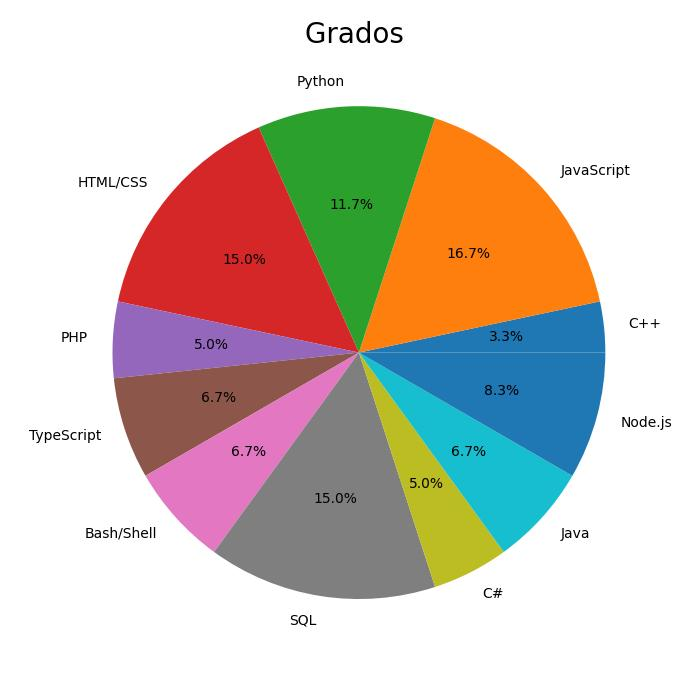
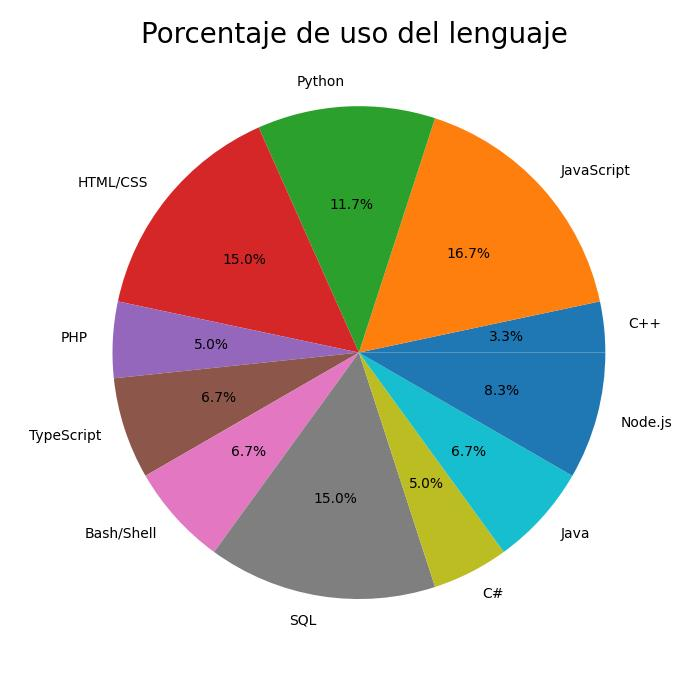
Mejora de presentación

Changed region(s): [[0.18, 0.03, 0.81, 0.09]]

diff --git a/static/images/grafos/Red de Relación de Lenguajes 30.html b/static/images/grafos/Red de Relación de Lenguajes 30.html
@@ -1,0 +1,85 @@
+
+
+
+
+<!DOCTYPE html>
+<html lang="en">
+  
+  <head>
+    
+      <meta charset="utf-8">
+      <title>Bokeh Plot</title>
+      
+      
+        
+          
+        
+        
+          
+        <script type="text/javascript" src="https://cdn.bokeh.org/bokeh/release/bokeh-2.4.2.min.js"></script>
+        <script type="text/javascript">
+            Bokeh.set_log_level("info");
+        </script>
+        
+      
+      
+    
+  </head>
+  
+  
+  <body>
+    
+      
+        
+          
+          
+            
+              <div class="bk-root" id="087b20fb-9281-4507-b767-f6efa4175745" data-root-id="1004"></div>
+            
+          
+        
+      
+      
+        <script type="application/json" id="1364">
+          {"e2a162a5-e5c5-48e3-ac5f-4ced6c0c3d2c":{"defs":[],"roots":{"references":[{"attributes":{},"id":"1094","type":"UnionRenderers"},{"attributes":{"data":{"name":["C++","JavaScript","Python","HTML/CSS","PHP","TypeScript","Bash/Shell","SQL","C#","Java","Node.js"],"x":[10.0,8.41253520348504,4.1541505335069475,-1.4231482709823826,-6.548606618843784,-9.594929655072937,-9.594929655072937,-6.548607214890226,-1.4231500591217114,4.154151129553391,8.412534607438598],"y":[0.0,5.406407669947302,9.096319601511526,9.898214259758205,7.557496367063065,2.817326165188501,-2.8173255691420582,-7.5574957710166215,-9.898214259758205,-9.096319601511526,-5.406408862040188]},"selected":{"id":"1095"},"selection_policy":{"id":"1094"}},"id":"1076","type":"ColumnDataSource"},{"attributes":{},"id":"1011","type":"LinearScale"},{"attributes":{},"id":"1098","type":"UnionRenderers"},{"attributes":{"coordinates":null,"edge_renderer":{"id":"1039"},"group":null,"inspection_policy":{"id":"1074"},"layout_provider":{"id":"1041"},"node_renderer":{"id":"1035"},"selection_policy":{"id":"1072"}},"id":"1032","type":"GraphRenderer"},{"attributes":{"end":12,"start":-12},"id":"1003","type":"Range1d"},{"attributes":{"coordinates":null,"formatter":{"id":"1092"},"group":null,"major_label_policy":{"id":"1093"},"ticker":{"id":"1014"}},"id":"1013","type":"LinearAxis"},{"attributes":{},"id":"1072","type":"NodesAndLinkedEdges"},{"attributes":{"source":{"id":"1038"}},"id":"1040","type":"CDSView"},{"attributes":{"data":{"adjusted_node_size":[7,15,12,14,8,9,9,14,8,9,10],"betweenness":[0.0,0.24074074074074076,0.07222222222222223,0.1185185185185185,0.0,0.0,0.0,0.1185185185185185,0.0,0.0,0.005555555555555556],"closeness":[0.5555555555555556,1.0,0.7692307692307693,0.9090909090909091,0.5882352941176471,0.625,0.625,0.9090909090909091,0.5882352941176471,0.625,0.6666666666666666],"communityNumber":[0,1,0,1,1,1,0,1,1,0,1],"degree":[0.2,1.0,0.7000000000000001,0.9,0.30000000000000004,0.4,0.4,0.9,0.30000000000000004,0.4,0.5],"edge":[2,10,7,9,3,4,4,9,3,4,5],"eigenvector":[0.12131642024595973,0.42810149458000507,0.3412634104035984,0.4115773710719093,0.19730271857122136,0.2429400388689923,0.25111450885391384,0.4115773710719093,0.19730271857122136,0.25111450885391384,0.2894223131845697],"index":["C++","JavaScript","Python","HTML/CSS","PHP","TypeScript","Bash/Shell","SQL","C#","Java","Node.js"],"modularity":[-0.00111,-0.02778,-0.01361,-0.0225,-0.0025,-0.00444,-0.00444,-0.0225,-0.0025,-0.00444,-0.00694],"modularity_color":["#3288bd","#66c2a5","#3288bd","#66c2a5","#66c2a5","#66c2a5","#3288bd","#66c2a5","#66c2a5","#3288bd","#66c2a5"],"pagerank":[0.03292393253117001,0.19233999199822485,0.11205605087802184,0.16252508104443988,0.045280224736734744,0.065372274414834,0.055341557593955364,0.13953488674451123,0.046805957759413236,0.06479750046695046,0.08302254183174451]},"selected":{"id":"1097"},"selection_policy":{"id":"1096"}},"id":"1034","type":"ColumnDataSource"},{"attributes":{},"id":"1009","type":"LinearScale"},{"attributes":{"data":{"end":["JavaScript","Python","HTML/CSS","PHP","Python","TypeScript","Bash/Shell","SQL","C#","Java","Node.js","HTML/CSS","Bash/Shell","SQL","Java","Node.js","PHP","TypeScript","Bash/Shell","SQL","C#","Java","Node.js","SQL","SQL","Node.js","SQL","C#","Java","Node.js"],"start":["C++","C++","JavaScript","JavaScript","JavaScript","JavaScript","JavaScript","JavaScript","JavaScript","JavaScript","JavaScript","Python","Python","Python","Python","Python","HTML/CSS","HTML/CSS","HTML/CSS","HTML/CSS","HTML/CSS","HTML/CSS","HTML/CSS","PHP","TypeScript","TypeScript","Bash/Shell","SQL","SQL","SQL"],"weight":[12326,13543,40818,15965,24974,22542,15460,29709,16624,20378,26262,22361,14577,19651,15599,14126,14704,18681,13968,27005,14833,17354,21795,12884,13775,15629,12661,14186,16293,15713]},"selected":{"id":"1099"},"selection_policy":{"id":"1098"}},"id":"1038","type":"ColumnDataSource"},{"attributes":{"active_scroll":{"id":"1022"},"tools":[{"id":"1021"},{"id":"1022"},{"id":"1023"},{"id":"1024"},{"id":"1025"}]},"id":"1026","type":"Toolbar"},{"attributes":{"below":[{"id":"1013"}],"center":[{"id":"1016"},{"id":"1020"}],"left":[{"id":"1017"}],"renderers":[{"id":"1032"},{"id":"1077"}],"title":{"id":"1005"},"toolbar":{"id":"1026"},"x_range":{"id":"1002"},"x_scale":{"id":"1009"},"y_range":{"id":"1003"},"y_scale":{"id":"1011"}},"id":"1004","subtype":"Figure","type":"Plot"},{"attributes":{},"id":"1089","type":"BasicTickFormatter"},{"attributes":{"coordinates":null,"group":null,"text":"Red de Relaci\u00f3n de Lenguajes "},"id":"1005","type":"Title"},{"attributes":{},"id":"1099","type":"Selection"},{"attributes":{"source":{"id":"1034"}},"id":"1036","type":"CDSView"},{"attributes":{},"id":"1090","type":"AllLabels"},{"attributes":{"line_width":{"value":2}},"id":"1062","type":"MultiLine"},{"attributes":{"end":12,"start":-12},"id":"1002","type":"Range1d"},{"attributes":{"fill_color":{"value":"white"},"line_width":{"value":2},"size":{"field":"adjusted_node_size"}},"id":"1052","type":"Circle"},{"attributes":{},"id":"1092","type":"BasicTickFormatter"},{"attributes":{},"id":"1014","type":"BasicTicker"},{"attributes":{},"id":"1095","type":"Selection"},{"attributes":{"coordinates":null,"formatter":{"id":"1089"},"group":null,"major_label_policy":{"id":"1090"},"ticker":{"id":"1018"}},"id":"1017","type":"LinearAxis"},{"attributes":{"axis":{"id":"1013"},"coordinates":null,"group":null,"ticker":null},"id":"1016","type":"Grid"},{"attributes":{},"id":"1093","type":"AllLabels"},{"attributes":{"line_width":{"value":2}},"id":"1067","type":"MultiLine"},{"attributes":{"coordinates":null,"data_source":{"id":"1038"},"glyph":{"id":"1057"},"group":null,"hover_glyph":{"id":"1067"},"selection_glyph":{"id":"1062"},"view":{"id":"1040"}},"id":"1039","type":"GlyphRenderer"},{"attributes":{"line_alpha":{"value":0.3}},"id":"1057","type":"MultiLine"},{"attributes":{"fill_color":{"value":"white"},"line_width":{"value":2},"size":{"field":"adjusted_node_size"}},"id":"1047","type":"Circle"},{"attributes":{},"id":"1074","type":"NodesAndLinkedEdges"},{"attributes":{},"id":"1018","type":"BasicTicker"},{"attributes":{"axis":{"id":"1017"},"coordinates":null,"dimension":1,"group":null,"ticker":null},"id":"1020","type":"Grid"},{"attributes":{},"id":"1096","type":"UnionRenderers"},{"attributes":{"callback":null,"tooltips":[["Lenguaje","@index"],["Enlaces","@edge"],["Modularidad","@modularity"],["Influencia","@pagerank"],["Grado","@degree"],["Betweenness","@betweenness"],["Closeness","@closeness"],["Eigenvector","@eigenvector"],["N\u00famero Comunidad","@communityNumber"],["Color Modularidad","$color[swatch]:modularity_color"]]},"id":"1025","type":"HoverTool"},{"attributes":{},"id":"1097","type":"Selection"},{"attributes":{"background_fill_alpha":{"value":0.7},"background_fill_color":{"value":"white"},"coordinates":null,"group":null,"source":{"id":"1076"},"text":{"field":"name"},"text_font_size":{"value":"10px"},"x":{"field":"x"},"y":{"field":"y"}},"id":"1077","type":"LabelSet"},{"attributes":{},"id":"1022","type":"WheelZoomTool"},{"attributes":{},"id":"1021","type":"PanTool"},{"attributes":{},"id":"1023","type":"SaveTool"},{"attributes":{},"id":"1024","type":"ResetTool"},{"attributes":{"fill_color":{"field":"modularity_color"},"size":{"field":"adjusted_node_size"}},"id":"1042","type":"Circle"},{"attributes":{"coordinates":null,"data_source":{"id":"1034"},"glyph":{"id":"1042"},"group":null,"hover_glyph":{"id":"1047"},"selection_glyph":{"id":"1052"},"view":{"id":"1036"}},"id":"1035","type":"GlyphRenderer"},{"attributes":{"graph_layout":{"Bash/Shell":[-9.594929655072937,-2.8173255691420582],"C#":[-1.4231500591217114,-9.898214259758205],"C++":[10.0,0.0],"HTML/CSS":[-1.4231482709823826,9.898214259758205],"Java":[4.154151129553391,-9.096319601511526],"JavaScript":[8.41253520348504,5.406407669947302],"Node.js":[8.412534607438598,-5.406408862040188],"PHP":[-6.548606618843784,7.557496367063065],"Python":[4.1541505335069475,9.096319601511526],"SQL":[-6.548607214890226,-7.5574957710166215],"TypeScript":[-9.594929655072937,2.817326165188501]}},"id":"1041","type":"StaticLayoutProvider"}],"root_ids":["1004"]},"title":"Bokeh Application","version":"2.4.2"}}
+        </script>
+        <script type="text/javascript">
+          (function() {
+            const fn = function() {
+              Bokeh.safely(function() {
+                (function(root) {
+                  function embed_document(root) {
+                    
+                  const docs_json = document.getElementById('1364').textContent;
+                  const render_items = [{"docid":"e2a162a5-e5c5-48e3-ac5f-4ced6c0c3d2c","root_ids":["1004"],"roots":{"1004":"087b20fb-9281-4507-b767-f6efa4175745"}}];
+                  root.Bokeh.embed.embed_items(docs_json, render_items);
+                
+                  }
+                  if (root.Bokeh !== undefined) {
+                    embed_document(root);
+                  } else {
+                    let attempts = 0;
+                    const timer = setInterval(function(root) {
+                      if (root.Bokeh !== undefined) {
+                        clearInterval(timer);
+                        embed_document(root);
+                      } else {
+                        attempts++;
+                        if (attempts > 100) {
+                          clearInterval(timer);
+                          console.log("Bokeh: ERROR: Unable to run BokehJS code because BokehJS library is missing");
+                        }
+                      }
+                    }, 10, root)
+                  }
+                })(window);
+              });
+            };
+            if (document.readyState != "loading") fn();
+            else document.addEventListener("DOMContentLoaded", fn);
+          })();
+        </script>
+    
+  </body>
+  
+</html>

diff --git a/templates/principal.html b/templates/principal.html
@@ -1,26 +1,26 @@
 {% extends "base.html" %}
 {% block pagecontent %}
 
-<p>
-    Umbral: {{ name }}
+<p align="Middle">
+    <b>Umbral: {{ name }}</b>
 </p>
 
 <p>    
     <tr>
         <td>
-            <iframe src="./static/images/grafos/Languages That I worked With Network{{name}}.html" scrolling="no" width="55%" height="620" ></iframe>
+            <iframe src="./static/images/grafos/Red de Relación de Lenguajes {{name}}.html" scrolling="no" width="53%" height="620" ></iframe>
         </td>
         <td>
-            <iframe src="./static/images/tablas/tablaVecinos{{name}}.html" scrolling="auto" width="40%" height="620" ></iframe>
+            <iframe align="Right" src="./static/images/tablas/tablaVecinos{{name}}.html" scrolling="auto" width="45%" height="620" ></iframe>
         </td>
     </tr>
     
     <tr>
         <td>
-            <img src="./static/images/histogramas/histograma{{name}}.jpg" width="400" height="300" >
+            <img align="Middle" src="./static/images/histogramas/histograma{{name}}.jpg" width="400" height="350">
         </td>
         <td>
-            <img src="./static/images/graficosSectores/GraficoSectores{{name}}.jpg" width="500" height="500">
+            <img align="Middle" src="./static/images/graficosSectores/GraficoSectores{{name}}.jpg" width="450" height="500">
         </td>
     </tr>
 </p>

diff --git a/static/images/tablas/tablaVecinos30.html b/static/images/tablas/tablaVecinos30.html
@@ -1,18 +1,18 @@
 <table border="1" class="dataframe">
   <thead>
-    <tr style="text-align: right;">
-      <th></th>
-      <th>Nodo</th>
-      <th>Lenguaje 1</th>
-      <th>Lenguaje 2</th>
-      <th>Lenguaje 3</th>
-      <th>Lenguaje 4</th>
-      <th>Lenguaje 5</th>
-      <th>Lenguaje 6</th>
-      <th>Lenguaje 7</th>
-      <th>Lenguaje 8</th>
-      <th>Lenguaje 9</th>
-      <th>Lenguaje 10</th>
+    <tr style="text-align: center;">
+      <th style="min-width: 100px;"></th>
+      <th style="min-width: 100px;">Nodo</th>
+      <th style="min-width: 100px;">Lenguaje 1</th>
+      <th style="min-width: 100px;">Lenguaje 2</th>
+      <th style="min-width: 100px;">Lenguaje 3</th>
+      <th style="min-width: 100px;">Lenguaje 4</th>
+      <th style="min-width: 100px;">Lenguaje 5</th>
+      <th style="min-width: 100px;">Lenguaje 6</th>
+      <th style="min-width: 100px;">Lenguaje 7</th>
+      <th style="min-width: 100px;">Lenguaje 8</th>
+      <th style="min-width: 100px;">Lenguaje 9</th>
+      <th style="min-width: 100px;">Lenguaje 10</th>
     </tr>
   </thead>
   <tbody>

diff --git a/static/style.css b/static/style.css
@@ -1,11 +1,11 @@
 body {
     font-family: Verdana, Geneva, Tahoma, sans-serif;
-    margin: 0;
+    margin: 10pt;
 }
 
 #nav {
-    background-color: black;
-    color: white;
+    background-color: rgb(2, 1, 71);
+    margin: 0pt;
 }
 
 #nav ul {
@@ -23,25 +23,21 @@ body {
 }
 
 #footer {
+    margin: 0pt;
     font-size: small;
+    color: white;
+    background-color: rgb(2, 1, 71);
 }
 
 #page-content {
-    margin: 10pt;
+    margin: 0pt;
+    background-color: rgb(241, 255, 255);
 }
 
 #page-content li:nth-child(even){
-    background-color:  #ddd;
-}
-
-.tachado {
-    text-decoration: line-through;
-}
-
-.rojo {
-    color: red;
+    background-color:  rgb(220, 252, 252);
 }
 
 #nav a:hover {
-    color: yellow;
+    color: rgb(113, 190, 241);
 }

diff --git a/finalCode.py b/finalCode.py
@@ -80,7 +80,7 @@ def gradosNodos(G, umbral):
         lista.append(d[1])
     fig=plt.figure(figsize=(7,7))
     plt.pie(lista, labels=G.nodes(), autopct='%1.1f%%')
-    plt.title('Grados \n', fontsize = 20)
+    plt.title('Porcentaje de uso del lenguaje \n', fontsize = 20)
     plt.axis("equal")
     plt.savefig("static/images/graficosSectores/GraficoSectores"+str(umbral)+".jpg")
 
@@ -188,20 +188,20 @@ def grafoInteractivo(G, umbral):
     color_by_this_attribute = 'modularity_color'
 
     #Choose a title!
-    title = 'Languages That I worked With Network'
+    title = 'Red de Relación de Lenguajes '
 
     #Establish which categories will appear when hovering over each node
     HOVER_TOOLTIPS = [
-        ("Character", "@index"),
-        ("Edges", "@edge"),
-        ("Modularity", "@modularity"),
-        ("Pagerank", "@pagerank"),
-        ("Degree", "@degree"),
+        ("Lenguaje", "@index"),
+        ("Enlaces", "@edge"),
+        ("Modularidad", "@modularity"),
+        ("Influencia", "@pagerank"),
+        ("Grado", "@degree"),
         ("Betweenness", "@betweenness"),
         ("Closeness", "@closeness"),
         ("Eigenvector", "@eigenvector"),
-        ("CommunityNumber", "@communityNumber"),
-        ("Modularity Color", "$color[swatch]:modularity_color"),
+        ("Número Comunidad", "@communityNumber"),
+        ("Color Modularidad", "$color[swatch]:modularity_color"),
     ]
 
     #Crear grafo 
@@ -246,6 +246,7 @@ def vecinos(G, umbral):
     libro = xlsxwriter.Workbook('vecinos.xlsx')
     hoja = libro.add_worksheet()
     lista = {}
+
     for d in G.degree():
         lista[d[0]] = d[1]
     
@@ -286,7 +287,7 @@ def vecinos(G, umbral):
     
     df = pd.read_excel("vecinos.xlsx")
     df.fillna('', inplace=True)
-    df.to_html('static/images/tablas/tablaVecinos'+str(umbral)+'.html')
+    df.to_html('static/images/tablas/tablaVecinos'+str(umbral)+'.html', justify='center', col_space=100)
     
 
 def ejecutar(umbral):
